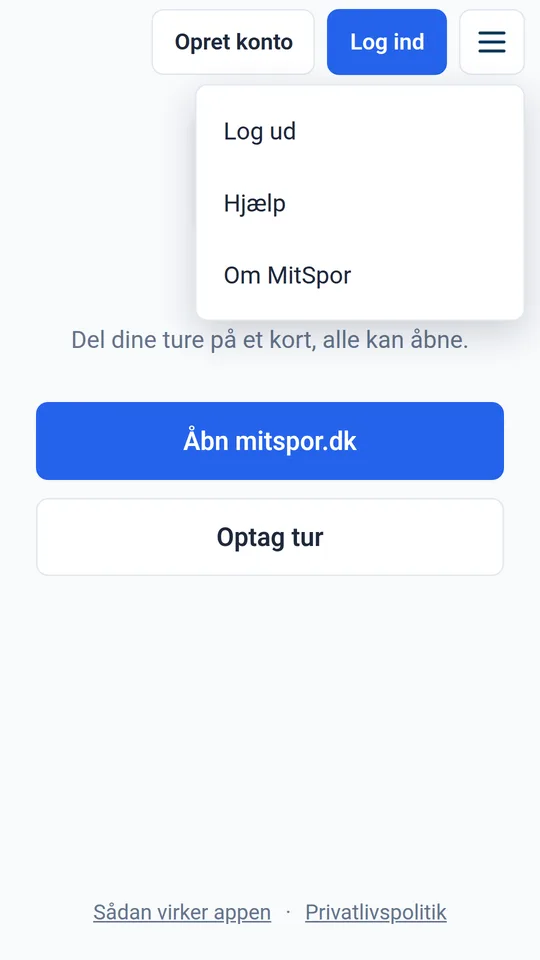
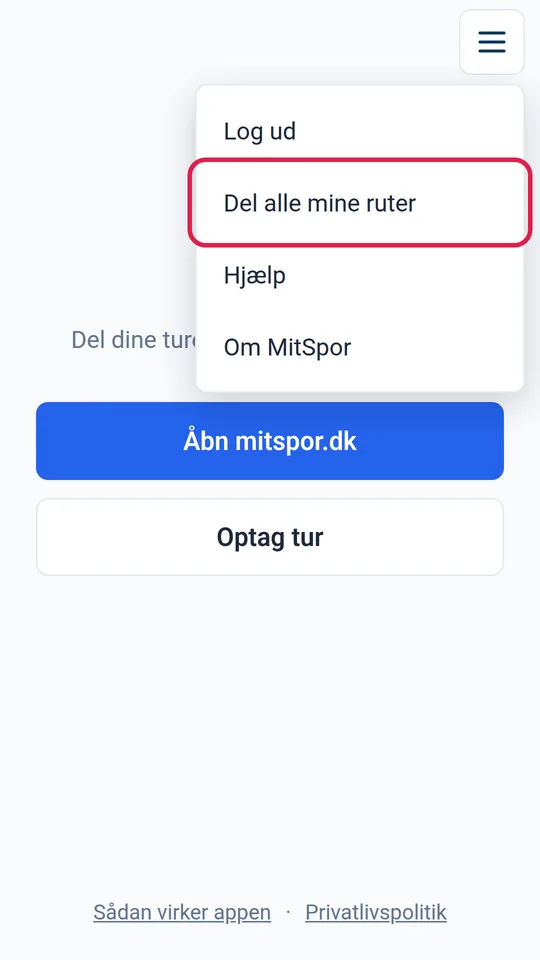
Vejledning: skrevet ud fra appen i main (Del alle i startmenuen), og startsiden vist som logget ind

diff --git a/public/vejledning/alle-ture.php b/public/vejledning/alle-ture.php
@@ -26,16 +26,14 @@ echo vj_overskrift('alle-ture');
 
     <div class="vj-trinliste">
 
-    <?= vj_trin('Åbn menuen i kontrolpanelet', '
-        <p>I appen trykker du på <strong class="knap">Åbn mitspor.dk</strong> og derefter på <strong>Kontrolpanel</strong>.
-        Tryk på menuen (☰) øverst til højre, og vælg <strong>Del alle mine ruter</strong>.</p>
-        <p>I den nyeste udgave af appen kan du også vælge <strong>Del alle mine ruter</strong> direkte i menuen på
-        appens startside.</p>
-    ', vj_billede('web-delalle-menu.webp', 'Kontrolpanelets menu med Del alle mine ruter fremhævet')) ?>
+    <?= vj_trin('Vælg Del alle mine ruter i appens menu', '
+        <p>Åbn appen, tryk på menuen (☰) øverst til højre på startsiden, og vælg <strong>Del alle mine ruter</strong>.</p>
+        <p>På en computer finder du det samme i menuen (☰) i dit kontrolpanel på mitspor.dk.</p>
+    ', vj_billede('app-menu.webp', 'Appens menu på startsiden med Del alle mine ruter fremhævet')) ?>
 
     <?= vj_trin('Kopiér linket, og send det', '
-        <p>MitSpor laver linket med det samme. Tryk på <strong class="knap">Kopiér</strong>, og sæt det ind i en
-        besked til farmor.</p>
+        <p>Dit kontrolpanel åbner med linket. Tryk på <strong class="knap">Kopiér</strong>, og sæt det ind i en
+        besked til farmor. Du kommer tilbage til appen med <strong>← MitSpor</strong> og derefter <strong>‹ Appen</strong>.</p>
         <p>Åbner du dialogen igen senere, er det det samme link. Det ændrer sig ikke, før du selv beder om det.</p>
     ', vj_billede('web-delalle-dialog.webp', 'Dialogen Del alle mine ruter med linket og knappen Kopiér')) ?>
 
